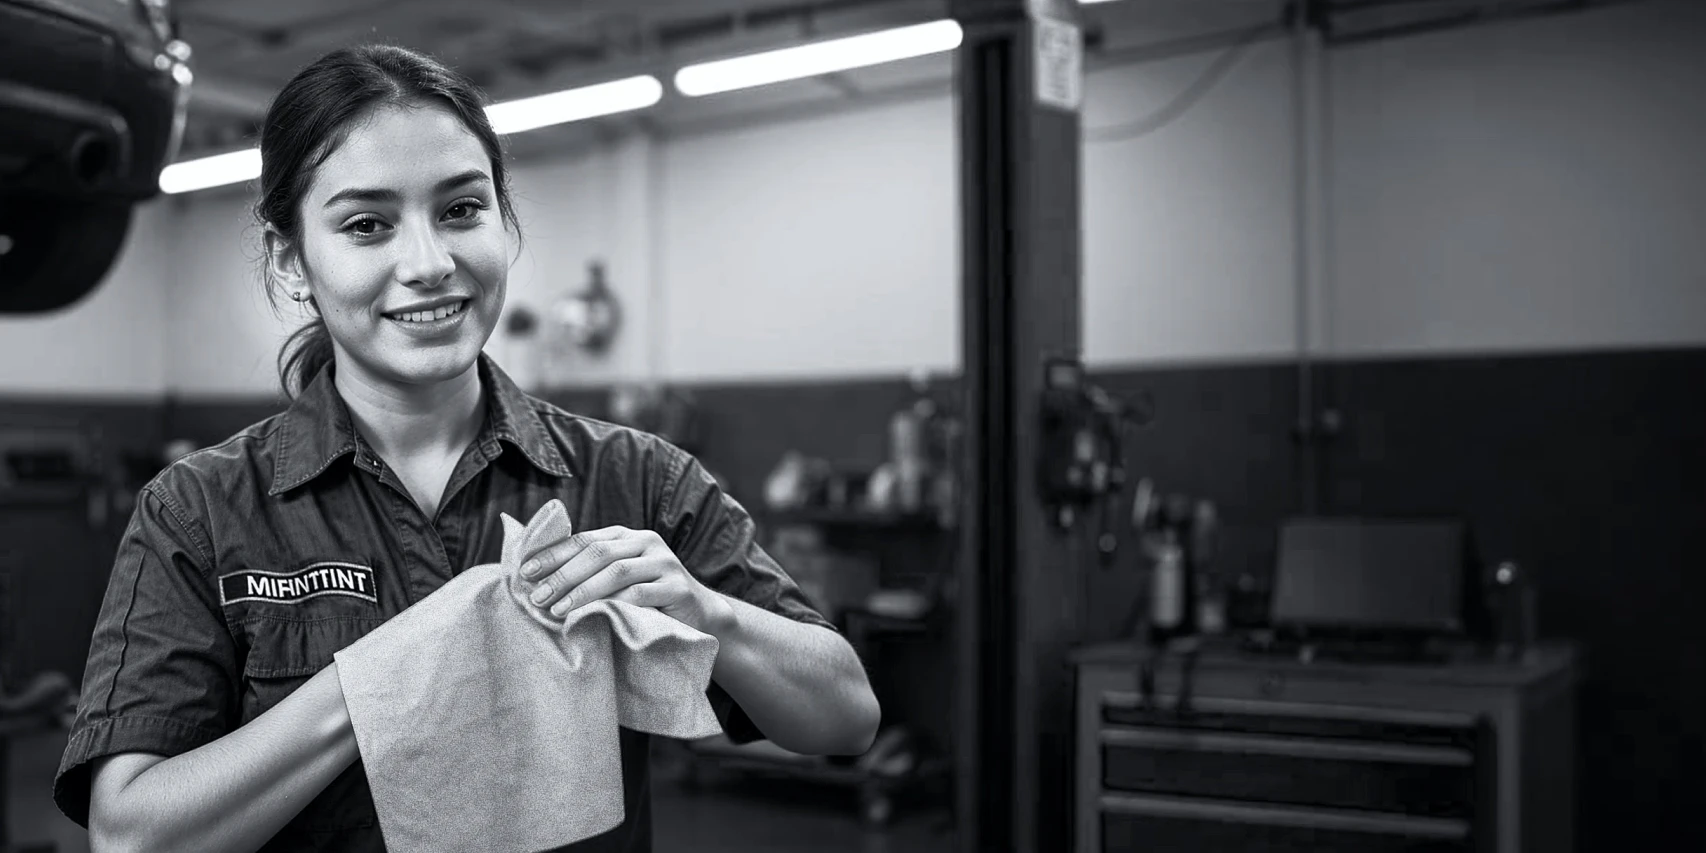
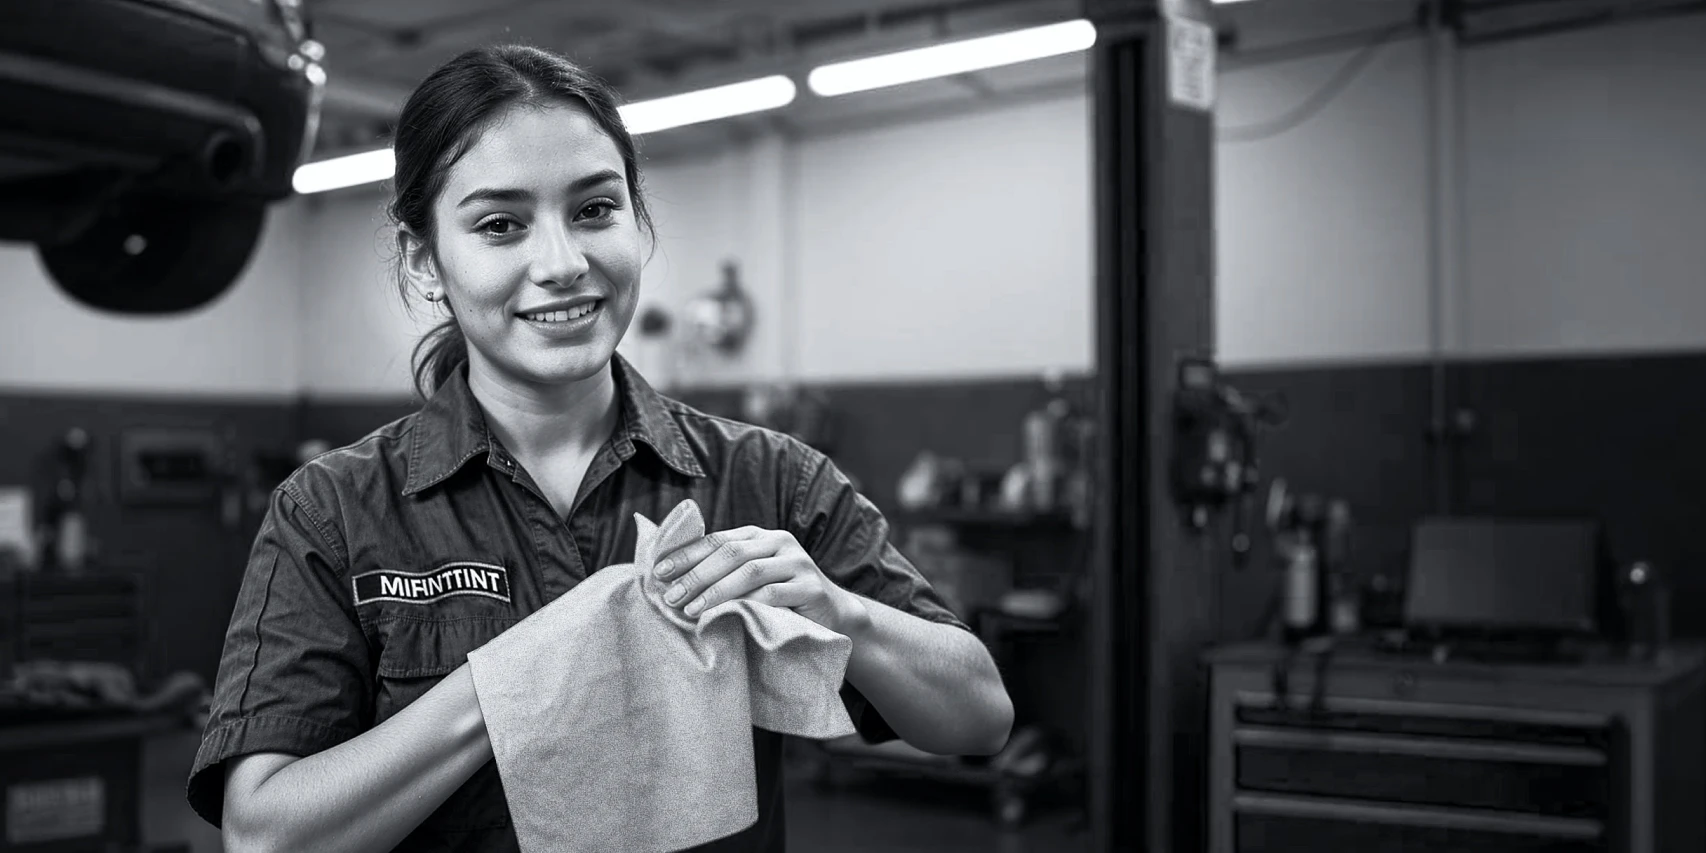
slider height to 19

diff --git a/assets/main.css b/assets/main.css
@@ -2256,7 +2256,7 @@ hr.style9:before {
 	--gutters: 2rem;
 	--padding-vertical: 1.75rem;
 	padding: var(--padding-vertical) var(--padding-horizontal);
-	border-radius: calc(0.5rem - 2px);
+	border-radius: calc(0.5rem - 0px);
 }
 
 #pageAboutIntro > .wrapper {
@@ -2404,8 +2404,8 @@ hr.style9:before {
 	--gutters: 0rem;
 	--padding-vertical: 2rem;
 	padding: var(--padding-vertical) var(--padding-horizontal);
-	border-top-left-radius: calc(0.5rem - 1px);
-	border-top-right-radius: calc(0.5rem - 1px);
+	border-top-left-radius: calc(0.5rem - 0px);
+	border-top-right-radius: calc(0.5rem - 0px);
 }
 
 #coverSlider > .wrapper {
@@ -2753,8 +2753,8 @@ hr.style9:before {
 	--padding-vertical: 3.5rem;
 	--spacing: 1.25rem;
 	padding: var(--padding-vertical) var(--padding-horizontal);
-	border-bottom-left-radius: calc(0.5rem - 2px);
-	border-bottom-right-radius: calc(0.5rem - 2px);
+	border-bottom-left-radius: calc(0.5rem - 0px);
+	border-bottom-right-radius: calc(0.5rem - 0px);
 }
 
 .container.style20 > .wrapper {
@@ -4780,8 +4780,8 @@ hr.style9:before {
 	--padding-vertical: 3rem;
 	--spacing: 0.5rem;
 	padding: var(--padding-vertical) var(--padding-horizontal);
-	border-top-left-radius: calc(0.5rem - 2px);
-	border-top-right-radius: calc(0.5rem - 2px);
+	border-top-left-radius: calc(0.5rem - 0px);
+	border-top-right-radius: calc(0.5rem - 0px);
 }
 
 .container.style16 > .wrapper {
@@ -5081,8 +5081,8 @@ hr.style9:before {
 	--padding-vertical: 4rem;
 	--spacing: 0.5rem;
 	padding: var(--padding-vertical) var(--padding-horizontal);
-	border-bottom-left-radius: calc(0.5rem - 2px);
-	border-bottom-right-radius: calc(0.5rem - 2px);
+	border-bottom-left-radius: calc(0.5rem - 0px);
+	border-bottom-right-radius: calc(0.5rem - 0px);
 }
 
 .container.style17 > .wrapper {
@@ -5377,8 +5377,8 @@ hr.style9:before {
 	--padding-vertical: 2.5rem;
 	--spacing: 1rem;
 	padding: var(--padding-vertical) var(--padding-horizontal);
-	border-top-left-radius: calc(0.5rem - 8px);
-	border-top-right-radius: calc(0.5rem - 8px);
+	border-top-left-radius: calc(0.5rem - 0px);
+	border-top-right-radius: calc(0.5rem - 0px);
 }
 
 #footerTop > .wrapper {
@@ -7233,7 +7233,6 @@ form.style1 label:first-child {
 form.style1 .field button {
 	background-size: 1rem;
 	height: 2rem;
-	line-height: 2rem;
 	width: 2rem;
 	border-radius: 0.16rem;
 	background-color: #222222;
@@ -7338,11 +7337,13 @@ form.style1 input[type="checkbox"] + label, form.style1 p {
 
 form.style1 .actions button {
 	display: inline-block;
+	width: auto;
 	height: 2.5rem;
 	line-height: 2.5rem;
 	padding: 0 1.25rem;
-	font-size: 1em;
+	vertical-align: middle;
 	font-family: 'Wix Madefor Display', sans-serif;
+	font-size: 1em;
 	font-weight: 500;
 	border-radius: 0.25rem;
 	direction: var(--site-language-direction);
@@ -7452,7 +7453,6 @@ form.style2 label:first-child {
 form.style2 .field button {
 	background-size: 1rem;
 	height: 2rem;
-	line-height: 2rem;
 	width: 2rem;
 	border-radius: 0.16rem;
 	background-color: #222222;
@@ -7557,11 +7557,13 @@ form.style2 input[type="checkbox"] + label, form.style2 p {
 
 form.style2 .actions button {
 	display: inline-block;
+	width: auto;
 	height: 2.5rem;
 	line-height: 2.5rem;
 	padding: 0 1.25rem;
-	font-size: 0.875em;
+	vertical-align: middle;
 	font-family: 'Wix Madefor Display', sans-serif;
+	font-size: 0.875em;
 	font-weight: 500;
 	border-radius: 0.25rem;
 	direction: var(--site-language-direction);
@@ -9627,7 +9629,7 @@ th {
 		--indent-right: 1;
 		--margin-left: auto;
 		--margin-right: auto;
-		min-height: 23rem;
+		min-height: 19rem;
 	}
 	
 	#coverSlider > .wrapper > .inner {
@@ -9723,7 +9725,7 @@ th {
 	}
 	
 	#coverSlider.columns > .wrapper > .inner > .full {
-		min-height: calc(23rem - (var(--padding-vertical) * 2));
+		min-height: calc(19rem - (var(--padding-vertical) * 2));
 	}
 	
 	#coverSlider.columns > .wrapper > .inner > .full > .full:first-child:last-child {
@@ -11968,8 +11970,8 @@ th {
 	}
 	
 	form.style1 .actions button {
-		font-size: 1em;
 		letter-spacing: 0rem;
+		font-size: 1em;
 	}
 	
 	form.style2 label:first-child {
@@ -11995,8 +11997,8 @@ th {
 	}
 	
 	form.style2 .actions button {
-		font-size: 0.875em;
 		letter-spacing: 0rem;
+		font-size: 0.875em;
 	}
 	
 	form.style2 .inner {
@@ -12409,11 +12411,11 @@ th {
 	}
 	
 	#coverSlider {
-		min-height: 17.25rem;
+		min-height: 14.25rem;
 	}
 	
 	#coverSlider.columns > .wrapper > .inner > .full {
-		min-height: calc(17.25rem - (var(--padding-vertical) * 2));
+		min-height: calc(14.25rem - (var(--padding-vertical) * 2));
 	}
 	
 	#container09 > .wrapper > .inner {
